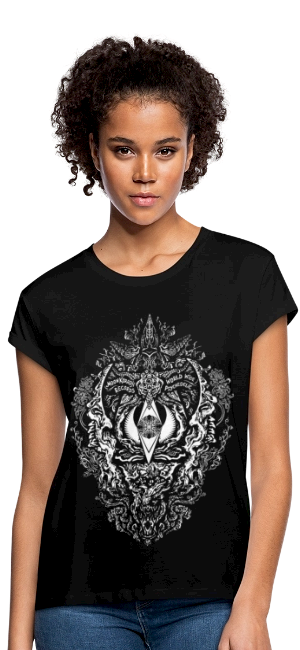
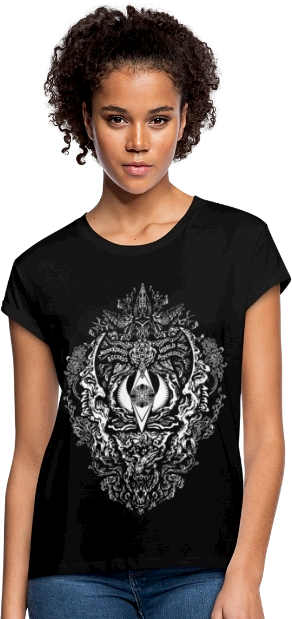
new t-shirt

diff --git a/src/app/home/home.component.ts b/src/app/home/home.component.ts
@@ -52,11 +52,11 @@ export class HomeComponent implements OnInit, OnDestroy {
 
 	private metaDataObj: iMeta = {
 		title: 'Enter the Realm of Psychedelic Sounds: Moon Koradji Records\' home page',
-		description: 'Independent ukrainian psytrance label founded in 2007 by Alexandr Nikienko aka DJ Omsun.',
+		description: 'Independent ukrainian psytrance label founded in 2007 by Oleksandr Nikiienko aka DJ Omsun.',
 		ogTitle: 'Moon Koradji Records - Worl Wide Psychedelic',
 		ogImage: 'https://www.moonkoradji.com/assets/images/mk_square.jpg',
 		ogUrl: 'https://www.moonkoradji.com/',
-		ogDescription: 'Independent ukrainian psytrance label founded in 2007 by Alexandr Nikienko aka DJ Omsun.'
+		ogDescription: 'Independent ukrainian psytrance label founded in 2007 by Oleksandr Nikiienko aka DJ Omsun.'
 	}
 
 	ngOnInit() {
@@ -88,7 +88,7 @@ export class HomeComponent implements OnInit, OnDestroy {
 				route: `/artists/${artist.replace(' ', '-').toLocaleLowerCase()}`,
 				image: {
 					default: `featured_${artist.replace(' ', '_').toLocaleLowerCase()}.jpg`,
-					// webp: `featured_${artist.replace(' ', '_').toLocaleLowerCase()}.webp`
+					webp: `featured_${artist.replace(' ', '_').toLocaleLowerCase()}.webp`
 				}
 			}
 		})

diff --git a/src/app/home/home.component.scss b/src/app/home/home.component.scss
@@ -67,25 +67,37 @@
 		text-align: center;
 		font-size: 26px;
 		line-height: 1;
+	}
 
-		&__link {
-			position: relative;
+	&__link {
+		position: relative;
 
-			&::after {
-				content: "\27a4";
-				position: absolute;
-				top: 2px;
-				left: 100%;
-				text-shadow: none;
-				animation: arrow 1s linear infinite;
-			}
+		&::after {
+			content: "\27a4";
+			position: absolute;
+			top: 6px;
+			left: 100%;
+			text-shadow: none;
+			animation: arrow 1s linear infinite;
 		}
 	}
 
 	&__content {
+		text-align: center;
+    	display: flex;
+    	align-items: flex-end;
+		padding-inline: 10rem;
+
 		img {
-			height: 522px;
 			width: auto;
+		}
+
+		@include tablet {
+			padding-inline: 5rem;
+		}
+
+		@include mobile {
+			padding-inline: 2rem;
 		}
 	}
 }

diff --git a/src/app/home/home.component.html b/src/app/home/home.component.html
@@ -161,6 +161,11 @@
 			
 			<div class="go-to-merch__content">
 				<picture>
+					<source srcset="./assets/images/merch/tshirt-2.webp" type="image/webp">
+					<img src="./assets/images/merch/tshirt-2.png" alt="" loading="lazy">
+				</picture>
+				
+				<picture>
 					<source srcset="./assets/images/merch/tshirt-1-w1.webp" type="image/webp">
 					<img src="./assets/images/merch/tshirt-1-w1.png" alt="" loading="lazy">
 				</picture>
